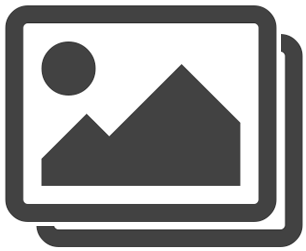
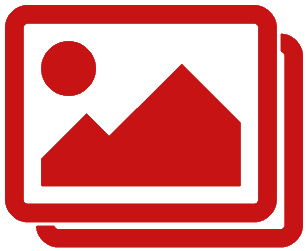
Search working with Places server API. Some style fixes.

diff --git a/routes/letters.js b/routes/letters.js
@@ -9,9 +9,7 @@ const Letter = require("../models/Letter");
 // Maps api variables
 const uriStart = "https://maps.googleapis.com/maps/api/";
 const uriKeyPrefix = "&key=";
-const staticMapArgs = "staticmap?zoom=14&size=400x400&center=";
-const geoCodeArgs = "geocode/json?sensor=false&components=postal_code:";
-const embedStart = "https://www.google.com/maps/embed/v1/place?q=";
+const placesArgs = "place/findplacefromtext/json?inputtype=textquery&fields=geometry&input="
 const MAPS_CLIENT = process.env.MAPS_CLIENT || config.get("MAPS_CLIENT");
 const MAPS_SERVER = process.env.MAPS_SERVER || config.get("MAPS_SERVER");
 //////////////////////
@@ -78,6 +76,15 @@ router.get("/get", (req, res) => {
 	Letter.find().then((results) => {
 		res.json(results);
 	});
+});
+
+// @route   GET /api/letters/search
+// @desc    
+// @access  Public
+router.get("/search/:place", (req, res) => {
+	axios.get(uriStart + placesArgs + req.params.place + uriKeyPrefix + MAPS_SERVER).then(result => {
+		res.json({location: result.data.candidates[0].geometry.location})
+	})
 });
 
 module.exports = router;

diff --git a/client/src/components/pages/Home/index.js b/client/src/components/pages/Home/index.js
@@ -16,7 +16,6 @@ class Home extends Component {
 			activeMarker: {},
 			showLeaveModal: false,
 			showLetter: false,
-			choice: "",
 		};
 	}
 
@@ -97,21 +96,11 @@ class Home extends Component {
 		this.setState({ showModal: false });
 	};
 
-	// submit search query and show map for result
-	searchMaps = (query, map) => {
-		console.log("Home searchmaps query");
-		console.log(query);
-		const request = {
-			query: query,
-			fields: ["name", "geometry"],
-		};
-		/* const service = new window.google.maps.places.PlacesService(map);
-		service.findPlaceFromQuery(request, function (results, status) {
-			if (status === window.google.maps.places.PlacesServiceStatus.OK) {
-				
-				map.setCenter(results[0].geometry.location);
-			}
-		}); */
+	// submit search query and center map on first result
+	searchMaps = (query) => {
+		API.searchMaps(query).then(result => {
+			map.setCenter(result.data.location);
+		})
 	};
 
 	componentDidMount() {

diff --git a/client/src/components/partials/ModalCard/index.js b/client/src/components/partials/ModalCard/index.js
@@ -1,4 +1,4 @@
-import React, { useState } from "react";
+import React from "react";
 import Capture from "../Capture";
 import "./style.css";
 
@@ -10,8 +10,8 @@ export default function ModalCard(props) {
 			</div>
 			<div className="modalFooter">
 				<div className="closeModalContainer">
-					<i class="far fa-times-circle fa-2x" onClick={props.closeLeaveModal}></i>
-					<i class="far fa-paper-plane fa-2x" onClick={props.handleClick}></i>
+					<i className="far fa-times-circle fa-2x" onClick={props.closeLeaveModal}></i>
+					<i className="far fa-paper-plane fa-2x" onClick={props.handleClick}></i>
 				</div>
 			</div>
 		</div>
@@ -28,7 +28,7 @@ export default function ModalCard(props) {
 				/>
 			</div>
 			<div className="closeModalContainer">
-				<i class="far fa-times-circle fa-2x" onClick={props.closeLeaveModal}></i>
+				<i className="far fa-times-circle fa-2x" onClick={props.closeLeaveModal}></i>
 			</div>
 		</div>
 	);

diff --git a/client/src/components/partials/Modal/index.js b/client/src/components/partials/Modal/index.js
@@ -19,14 +19,14 @@ export default function Modal(props) {
 		<dialog id={props.id} className="modalContainer">
 			<div className="iconContainer">
 				<i
-					class="far fa-keyboard fa-3x"
+					className="far fa-keyboard fa-3x"
 					id="text"
 					onClick={(e) => {
 						chooseLetterType(e);
 					}}
 				></i>
 				<i
-					class="fas fa-camera fa-3x"
+					className="fas fa-camera fa-3x"
 					id="capture"
 					onClick={(e) => {
 						chooseLetterType(e);
@@ -46,7 +46,7 @@ export default function Modal(props) {
 				</div>
 			) : (
 				<div className="closeModalContainer">
-					<i class="far fa-times-circle fa-2x" onClick={props.closeLeaveModal}></i>
+					<i className="far fa-times-circle fa-2x" onClick={props.closeLeaveModal}></i>
 				</div>
 			)}
 		</dialog>

diff --git a/client/public/index.html b/client/public/index.html
@@ -11,10 +11,11 @@
 	<body>
 		<noscript>You need to enable JavaScript to run this app.</noscript>
 		<div id="root"></div>
-		<script
+		<script type="text/javascript" src="https://maps.googleapis.com/maps/api/js?key=AIzaSyBiwGB51tklMH2Q-KEmsOl5z9RZjTca7Qc&libraries=places"></script>
+		<!-- <script
 			async
 			defer
-			src="https://maps.googleapis.com/maps/api/js?key=AIzaSyBiwGB51tklMH2Q-KEmsOl5z9RZjTca7Qc&callback=initMap"
-		></script>
+			src="https://maps.googleapis.com/maps/api/js?key=AIzaSyBiwGB51tklMH2Q-KEmsOl5z9RZjTca7Qc&callback=initMap&libraries=places"
+		></script> -->
 	</body>
 </html>

diff --git a/client/src/components/partials/Modal/style.css b/client/src/components/partials/Modal/style.css
@@ -8,7 +8,7 @@ dialog {
 	padding: 1rem;
 	border: none;
 	border-radius: 10px;
-	height: 10vh;
+	height: 12vh;
 	width: 80vw;
 }
 
@@ -18,9 +18,11 @@ dialog {
 	border-radius: 10px;
 }
 
-fa-keyboard,
-fa-camera {
-	color: firebrick;
+.fa-keyboard,
+.fa-camera,
+.fa-times-circle,
+.fa-paper-plane {
+	color: rgb(199, 19, 19)!important;
 }
 
 .modalCardContent {
@@ -33,11 +35,12 @@ fa-camera {
 	width: 80vw;
 	padding: 1rem;
 	margin: 0;
+	margin-top: 1rem;
 	overflow: hidden;
 }
 
 #letterText {
-	width: 100%;
+	width: 78vw;
 	border: 1px solid firebrick;
 	outline: none;
 	resize: none;

diff --git a/client/src/components/partials/Letter/index.js b/client/src/components/partials/Letter/index.js
@@ -1,9 +1,9 @@
-import React, { useState } from "react";
+import React from "react";
 
 export default function Letter(props) {
 	return (
 		<dialog id={props.id} className="letterContainer">
-			{props.type === "letter" ? <p>{props.text}</p> : <img src={props.src}></img>}
+			{props.type === "letter" ? <p>{props.text}</p> : <img src={props.src} alt="placeholder here"></img>}
 
 			<div className="closeModalContainer">
 				<i class="far fa-times-circle fa-2x" onClick={props.close}></i>

diff --git a/client/src/components/partials/CaptureImg/index.js b/client/src/components/partials/CaptureImg/index.js
@@ -4,7 +4,7 @@ import "./style.css";
 export default function CaptureImg(props) {
 	return (
 		<div className="captureContainer">
-			<img className="capturedImage" src={props.src} alt="Captured image"></img>
+			<img className="capturedImage" src={props.src} alt="Capture"></img>
 			<div className="imageIcons">
 				<i class="fas fa-cloud-upload-alt fa-3x" onClick={props.upload}></i>
 				<i class="fas fa-ban fa-3x" onClick={props.reset}></i>

diff --git a/client/src/components/partials/SearchForm/index.js b/client/src/components/partials/SearchForm/index.js
@@ -1,4 +1,5 @@
 import React from "react";
+import './style.css';
 
 export default function SearchForm(props) {
 	const handleSubmit = () => {
@@ -18,7 +19,7 @@ export default function SearchForm(props) {
 			<input id="searchInput" onKeyDown={(e) => onKeyDown(e)} />
 			<i
 				id="searchBtn"
-				class="fas fa-search form-control"
+				className="fas fa-search fa-3x form-control"
 				onClick={() => {
 					handleSubmit();
 				}}

diff --git a/client/src/components/partials/SearchForm/style.css b/client/src/components/partials/SearchForm/style.css
@@ -2,8 +2,19 @@
 	display: flex;
 	flex-direction: row;
 	justify-content: center;
+	background-color: rgb(199, 19, 19);
+	padding: 4px;
+	margin-top: -2px;
+}
+
+#searchInput {
+	padding: 10px;
+	margin-right: 2px;
+	width: 90vw;
+	outline: none;
 }
 
 #searchBtn {
 	display: inline;
+	color: white;
 }

diff --git a/client/src/components/partials/Capture/index.js b/client/src/components/partials/Capture/index.js
@@ -68,11 +68,11 @@ class Capture extends Component {
 	};
 
 	render() {
-		const videoConstraints = {
+		/* const videoConstraints = {
 			width: 1280,
 			height: 720,
 			facingMode: "user",
-		};
+		}; */
 
 		return (
 			<div className="webcamContainer">

diff --git a/client/src/components/partials/Capture/style.css b/client/src/components/partials/Capture/style.css
@@ -11,13 +11,13 @@ video {
 
 .captureBtnContainer {
 	position: relative;
-	top: -5rem;
+	top: -3.5rem;
 	width: 100%;
 	text-align: center;
 }
 
 .fa-record-vinyl {
-	color: firebrick;
+	color: rgb(199, 19, 19);
 }
 
 .fa-record-vinyl:hover {
